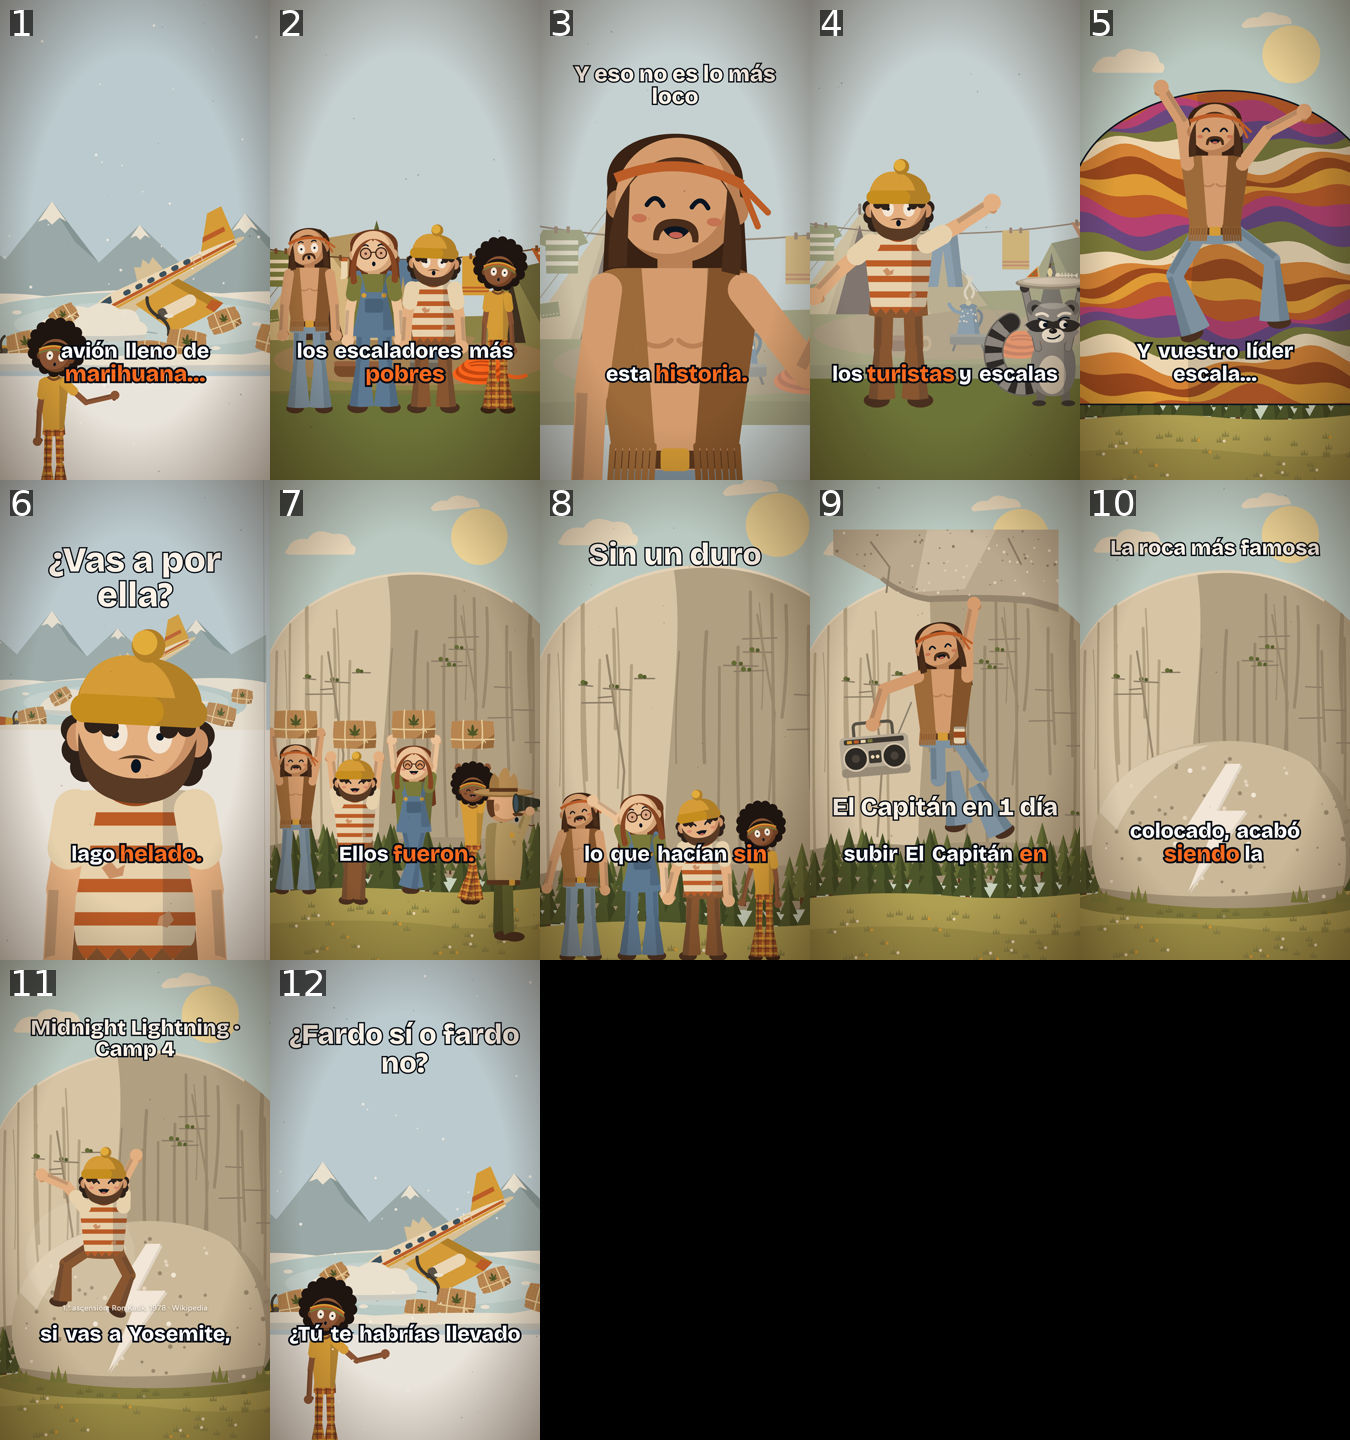
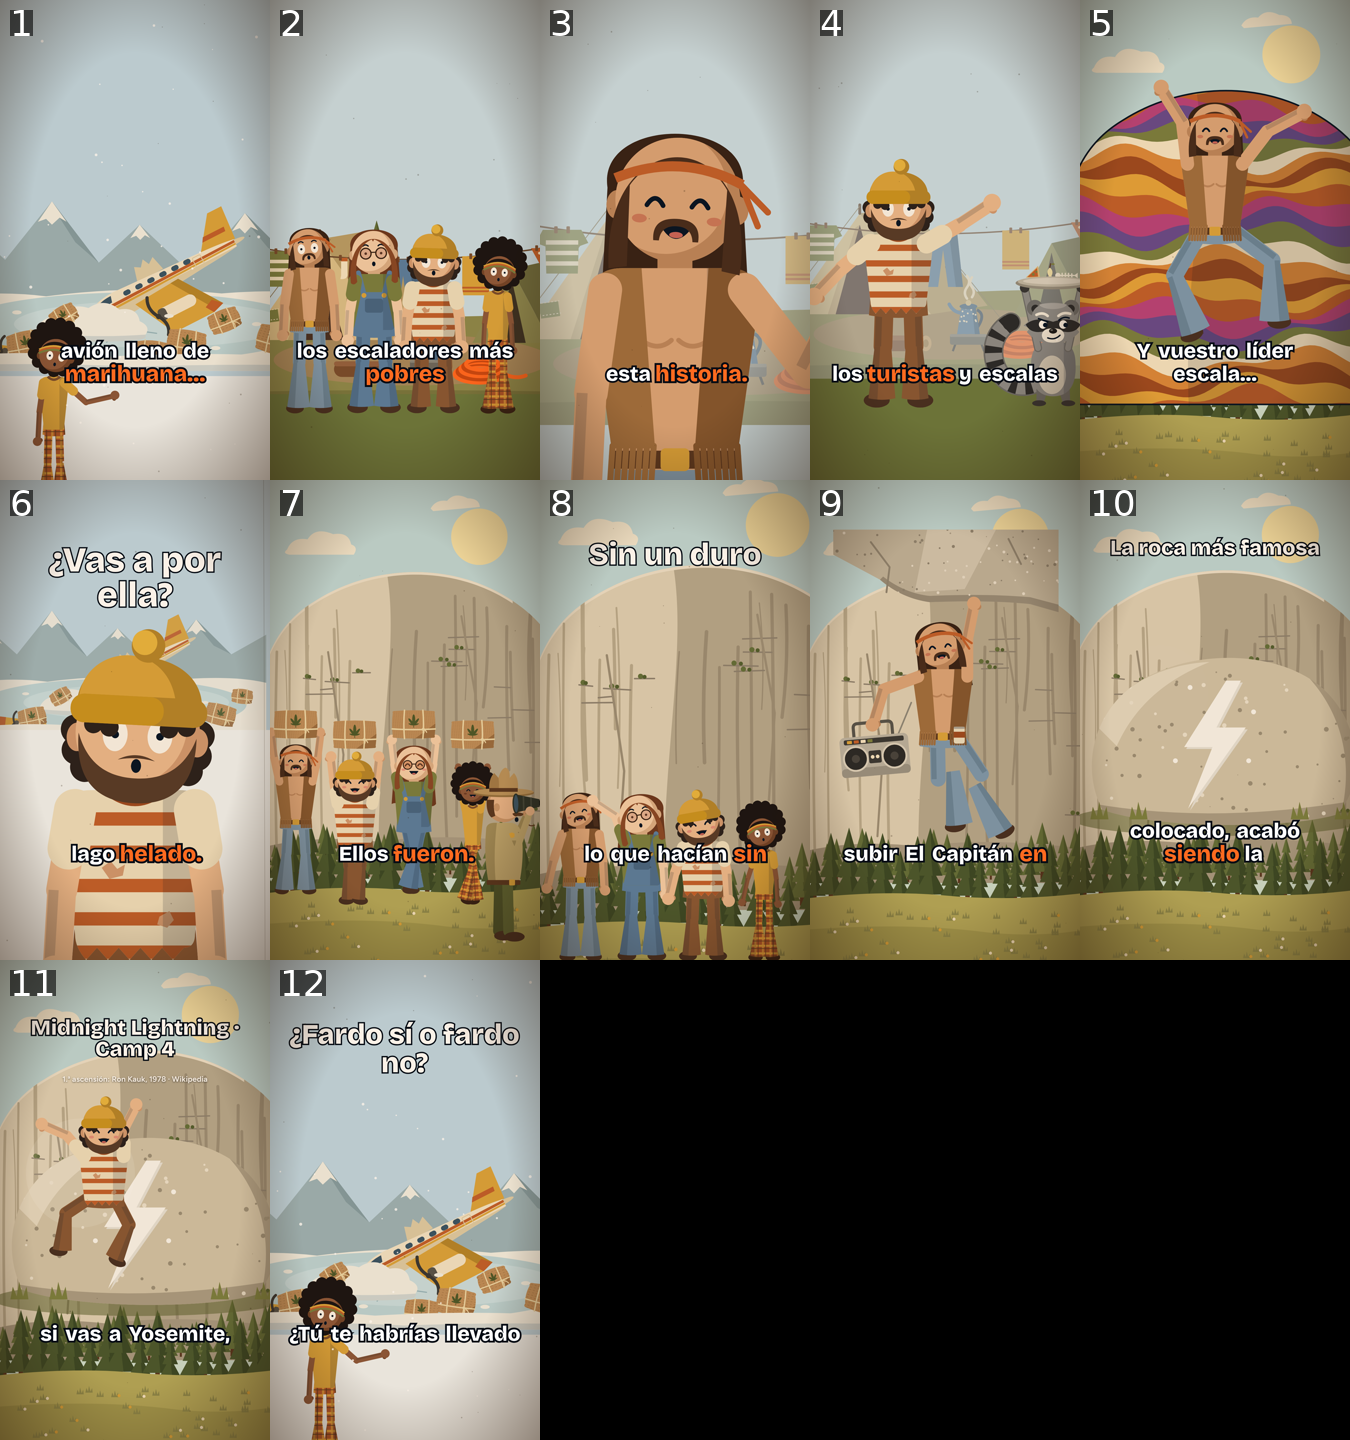
E36: sin rótulos en escenas 3 y 9, roca subida para que el subtítulo no tape el rayo, fuente de la escena 11 bajo el título, «hierba» en la ficha; render y hoja nuevos

Changed region(s): [[0.6222, 0.4375, 1.0, 0.6562], [0.0, 0.75, 0.2178, 0.9688], [0.4356, 0.0312, 0.5911, 0.0938]]

diff --git a/src/historias/Hippies/Bloque.tsx b/src/historias/Hippies/Bloque.tsx
@@ -2,7 +2,6 @@
 import React from "react";
 import { interpolate, useCurrentFrame } from "remotion";
 import { Camara, Etiqueta, Pieza, Pj, Svg, trepar, type P } from "./comun";
-import { Fuente } from "../Pierna/comun";
 import { VisionLsd } from "./Vision";
 
 const PlanoBloque: React.FC<{ d: number; titulo?: string; colocado?: number; prueba?: boolean; fuente?: string }> = ({ d, titulo, colocado, prueba, fuente }) => {
@@ -12,13 +11,13 @@ const PlanoBloque: React.FC<{ d: number; titulo?: string; colocado?: number; pru
     <Camara d={d} empuje={0.06} foco="50% 55%">
       <Svg>
         <Pieza nombre="fondo_yosemite" x={0} y={0} alto={1920} />
-        <Pieza nombre="bloque" x={-120} y={820} alto={940} />
-        <circle cx={330} cy={1180} r={180 + 30 * brillo} fill="#FFFFFF" opacity={0.12 * brillo} />
-        {prueba && <Pj q="tu" cx={420} suelo={1500 - f * 0.6} alto={700} cara="feliz" rot={trepar(f)} />}
+        <Pieza nombre="bloque" x={-120} y={500} alto={940} />
+        <circle cx={330} cy={860} r={180 + 30 * brillo} fill="#FFFFFF" opacity={0.12 * brillo} />
+        {prueba && <Pj q="tu" cx={420} suelo={1280 - f * 0.35} alto={700} cara="feliz" rot={trepar(f)} />}
         <VisionLsd op={psico} zoom={1.1} />
       </Svg>
       <Etiqueta texto={titulo} top={260} tam={82} desde={4} />
-      {fuente && <Fuente texto={fuente} />}
+      {fuente && <div style={{ position: "absolute", top: 480, left: 0, right: 0, textAlign: "center", fontFamily: "Figtree", fontWeight: 700, fontSize: 30, color: "#fff", opacity: 0.85, textShadow: "0 2px 6px #000a" }}>{fuente}</div>}
     </Camara>
   );
 };

diff --git a/videos/escalada/E36/ficha.md b/videos/escalada/E36/ficha.md
@@ -6,7 +6,7 @@
 - **Archivos:** `guion.json` · `sonido.json` · `texto-voz.txt` · `voz-recortada.mp3` (audio usado) · `datos-corregidos.json` (tiempos por frases) · `hoja.png` · `final.mp4` (no se versiona: `npm run render -- E36`)
 
 ## Publicación
-**Descripción:** Los escaladores más pobres de América, un avión lleno de maría y el bloque más famoso del mundo (que sigue ahí: Midnight Lightning, Camp 4, Yosemite).
+**Descripción:** Los escaladores más pobres de América, un avión lleno de hierba y el bloque más famoso del mundo (que sigue ahí: Midnight Lightning, Camp 4, Yosemite).
 
 Etiqueta al que se habría llevado dos.
 
